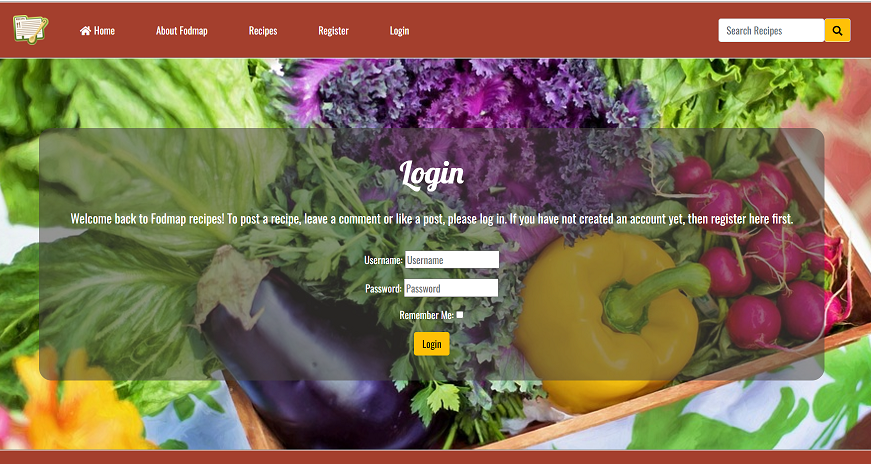
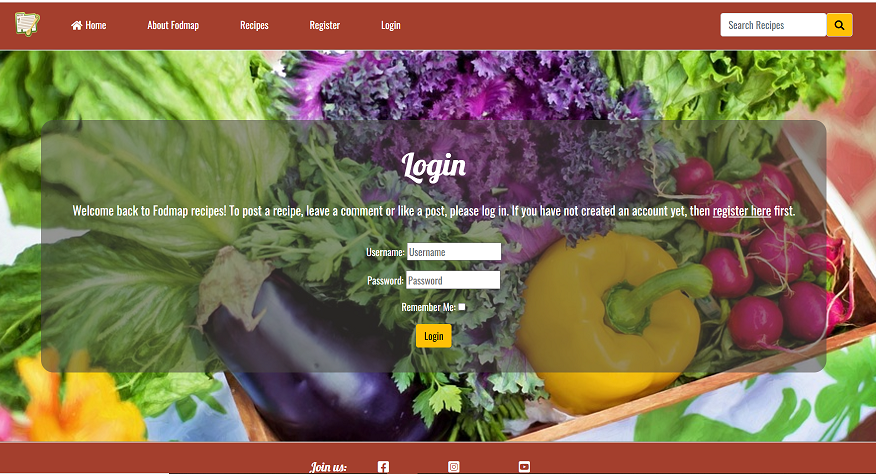
deployment commit

diff --git a/templates/recipe_details.html b/templates/recipe_details.html
@@ -4,25 +4,21 @@
 
 
 
-<div class="masthead">
-    <div class="container">
-        <div class="row g-0">
-            <div class="col-md-6 masthead-text">
-                <!-- Post title -->
-                <h1 class="post-title recipe-title">{{ post.title }}</h1>
-                <!-- Post author goes before the | the post's created date goes after -->
-                <p class="post-subtitle">{{ post.author }} | {{ post.created_on }}</p>
-            </div>
-            <div class="d-none d-md-block col-md-6 masthead-image">           
-                {% if "placeholder" in post.image.url %}
-                <img src="https://res.cloudinary.com/dglcwfgzw/image/upload/v1681206627/fodma-recipes-background_ghwuue.jpg" width="100%">
-                {% else %}
-                <img src=" {{ post.image.url }}" width="100%">
-                {% endif %}
-            </div>
-        </div>
+<div class="container">
+    <div class="row no-gutters recipe-card-head text-white mt-2">
+       <div class="col-md-6 my-auto">
+          <h1 class="recipe-title"> {{ post.title }}</h1>
+          <p class="recipe-subtitle mb-3 mb-lg-0">by {{ post.author }} | <em>{{ post.published_on }}</em></p>
+       </div>
+       <div class="d-md-block col-lg-6">
+          {% if "placeholder" in post.image.url %}
+          <img src="https://res.cloudinary.com/dglcwfgzw/image/upload/v1681206627/fodma-recipes-background_ghwuue.jpg" alt="fodmap" class="card-img-top img-fit">
+          {% else %}
+          <img class="card-img-top img-fit" src=" {{ post.image.url }}" alt="{{ post.title}}">
+          {% endif %}
+       </div>
     </div>
-</div>
+ </div>
 
 
 <!-- Recipe details: Description, Ingredients, Preparation steps -->

diff --git a/templates/index.html b/templates/index.html
@@ -46,7 +46,7 @@
                                     <img class="card-img-top"
                                         src="https://res.cloudinary.com/dglcwfgzw/image/upload/v1681917523/fodmap-recipes-backgroundWebP_syvibf.webp" alt="placeholder">
                                     {% else %}
-                                    <img class="card-img-top" src=" {{ post.image.url }}" alt="Image of {{ post.title }}">
+                                    <img class="card-img-top" src=" {{ post.image.url }}" alt="Image of {{ post.title }}" height="200" width="300">
                                     {% endif %}
                                     </a>
                                     <div class="image-flash">
@@ -103,7 +103,7 @@
                                     <img class="card-img-top" src="https://res.cloudinary.com/dglcwfgzw/image/upload/v1681917523/fodmap-recipes-backgroundWebP_syvibf.webp" alt="placeholder">
                                     {% else %}
                                     <a href="{% url 'recipe_details' recipe.slug  %}" class="post-link">
-                                        <img class="card-img-top" src=" {{ recipe.image.url }}" alt="Image of {{ post.title }}">
+                                        <img class="card-img-top" src=" {{ recipe.image.url }}" alt="Image of {{ post.title }}" height="300" width="300">
                                     </a>
                                     {% endif %}
                                     <div class="image-flash">

diff --git a/static/css/style.css b/static/css/style.css
@@ -98,39 +98,22 @@ a {text-decoration: none}
 }
 
 
-
-.masthead {
-    margin-top: 10px;
-    overflow: hidden;
-    position: relative;
-    display: inline-block;
-    height: 40vh;
-    width: 100%;
-}
-
-.masthead-text {
+.recipe-card-head {
     background-color: #445261;
-    color: white;
-    position: relative;
 }
 
-.masthead-image {
-    position: relative;
-    overflow: hidden;
+.recipe-title {
+    margin-left: 5%;
+    margin-top: 15px;
+}
+.recipe-subtitle {
+    margin-left: 5%;
+    margin-bottom: 0;
+    color: lightgray;
 }
 
-.masthead-image:after {
-    content: "";
-    position: absolute;
-    top: 0;
-    right: 90%;
-    height: 100%;
-    width: 150%;
-    background: #445261;
-    -webkit-transform: skew(15deg);
-    -moz-transform: skew(15deg);
-    transform: skew(15deg);
-    z-index: 100;
+.recipe-card-head-img > img{
+    height: 33vh;
 }
 
 .post-link {
@@ -167,14 +150,14 @@ a {text-decoration: none}
 }
 
 
-.signup-link {
+#login-register-link {
     color: white;
     text-decoration: underline;
 }
 
-.signup-link:hover,
-.signup-link:active {
-    color: #A43F2D;
+#login-register-link:hover,
+#login-register-link:active {
+    color: #A43F2D;/
     
 }
 

diff --git a/templates/account/signup.html b/templates/account/signup.html
@@ -7,12 +7,12 @@
 
 {% block content %}
 
-<div class="container-fluid userlog-image" style="background-image:url('https://res.cloudinary.com/dglcwfgzw/image/upload/v1678303325/vegetables-790022_960_720_jizvfv.jpg') ;">
+<div class="container-fluid userlog-image text-white" style="background-image:url('https://res.cloudinary.com/dglcwfgzw/image/upload/v1678303325/vegetables-790022_960_720_jizvfv.jpg') ;">
   <div class="row">
     <div class="col col-title text-center">
       <h2 class="title">{% trans "Register" %}</h2>
       <br>
-      <p class="display-6 text-white">{% blocktrans %}Already have an account? Then please <a class="signup-link" href="{{ login_url }}">login </a>.{% endblocktrans %}</p>
+      <p class="display-6">{% blocktrans %}Already have an account? Then please <a id="login-register-link" href="{{ login_url }}">login </a>.{% endblocktrans %}</p>
       <br>
       <form class="signup text-white" id="signup_form" method="post" action="{% url 'account_signup' %}">
         {% csrf_token %}

diff --git a/templates/account/login.html b/templates/account/login.html
@@ -12,8 +12,8 @@
       <div class="col col-title text-center">
               <h2 class="title">{% trans "Login" %}</h2>
               <br>
-              <p class="display-6">{% blocktrans %}Welcome back to Fodmap recipes! To post a recipe, leave a comment or like a post, please log in. If you
-                have not created an account yet, then <a class="link text-white" href="{{ signup_url }}">register here</a>
+              <p class="display-6 text-white">{% blocktrans %}Welcome back to Fodmap recipes! To post a recipe, leave a comment or like a post, please log in. If you
+                have not created an account yet, then <a id="login-register-link" href="{{ signup_url }}">register here</a>
                 first.{% endblocktrans %}</p>
               <br>
 

diff --git a/templates/base.html b/templates/base.html
@@ -24,7 +24,7 @@
 
     <nav class="navbar navbar-expand-lg navbar-light">
         <div class="container-fluid">
-            <a class="navbar-brand" href="{% url 'home' %}"><img src="{% static 'assets/images/recipe-icon-small.png' %}" height="40px" width="40px" alt="Logo" ></a>
+            <a class="navbar-brand" href="{% url 'home' %}"><img src="{% static 'assets/images/recipe-icon-small.png' %}" height="40" width="40" alt="Logo" ></a>
             <button class="navbar-toggler" type="button" data-bs-toggle="collapse" data-bs-target="#navbarText"
                 aria-controls="navbarText" aria-expanded="false" aria-label="Toggle navigation">
                 <span class="navbar-toggler-icon"></span>

diff --git a/fodmap_recipes/settings.py b/fodmap_recipes/settings.py
@@ -32,7 +32,7 @@ TEMPLATES_DIR = os.path.join(BASE_DIR, 'templates')
 SECRET_KEY = os.environ.get('SECRET_KEY')
 
 # SECURITY WARNING: don't run with debug turned on in production!
-DEBUG = False
+DEBUG = True
 
 ALLOWED_HOSTS = ["fodmap-recipes.herokuapp.com", "localhost"]
 
@@ -109,7 +109,7 @@ WSGI_APPLICATION = 'fodmap_recipes.wsgi.application'
 # Database
 # https://docs.djangoproject.com/en/3.2/ref/settings/#databases
 
-#DATABASES = {
+# DATABASES = {
 #    'default': {
 #        'ENGINE': 'django.db.backends.sqlite3',
 #        'NAME': BASE_DIR / 'db.sqlite3',

diff --git a/recipes/migrations/0006_remove_post_portions.py b/recipes/migrations/0006_remove_post_portions.py
@@ -1,0 +1,17 @@
+# Generated by Django 3.2.18 on 2023-04-21 14:16
+
+from django.db import migrations
+
+
+class Migration(migrations.Migration):
+
+    dependencies = [
+        ('recipes', '0005_alter_post_portions'),
+    ]
+
+    operations = [
+        migrations.RemoveField(
+            model_name='post',
+            name='portions',
+        ),
+    ]

diff --git a/README.md b/README.md
@@ -178,7 +178,7 @@ The home page consists of a welcome hero image with a yellow clear login/registe
 
 ![Welcome section](static/assets/images/fodmap-welcome.png)
 
-The next part of the home page is the recipe blog section, showing the latest 8 x2 blog posts entered (the last post in the upper left corner). The blog post showing consists of an image (if no image is not uploaded by the post creator a placeholder image is displayed) as well as the number of comments and likes and the date the post is published on. When clicking on the post link the full recipe with details is displayed on the "recipe details" page.
+The next part of the home page is the recipe blog section, showing the latest 8 x2 blog posts entered (the last post in the upper left corner). The blog post showing consists of an image (if no image is not uploaded by the post creator a placeholder image is displayed) as well as the number of comments (only approved/published comments are counted) and likes and the date the post is published on. When clicking on the post link the full recipe with details is displayed on the "recipe details" page.
 
 ![Recently added recipes](static/assets/images/recently-added-recipes.png)
 
@@ -490,6 +490,20 @@ Automated testing was done using the Django's unit tests from a Python standard 
 
 
 
+#### test_views.py
+![Unittest Views](static/assets/images/unittest-test_views.png)
+
+
+
+#### test_forms.py
+![Unittest Forms](static/assets/images/unittest-test_forms.png)
+
+
+
+#### Unittest coverage
+![Unittest Forms](static/assets/images/unittest-coverage-report.png)
+
+
 
 ### Performing tests on various devices
 
@@ -502,6 +516,8 @@ The website was tested using Google Chrome Developer Tools Toggle Device Toolbar
 
 ## Bugs
 
+![Bugs](static/assets/images/bugs.png)
+
 ## Improvements
 
 Possible future improvements of the site could be:
@@ -509,6 +525,7 @@ Possible future improvements of the site could be:
 * The number of comments count to be updated first after the comment has been approved
 * Adding a field in the top of the recipe_details page with cooking time and number of portions
 * A user info site where the user can update/edit their userinfo 
+* Get the unittest coverage up to 100%
 
 
 ##### Back to [top](#table-of-contents)
@@ -557,7 +574,6 @@ The facts about Fodmap were taken from:
 #### Ohter
 The following sites has also been helpful:
 * [W3Schools](https://www.w3schools.com/) 
-* [P4 News](https://github.com/mamuzaan/Portfolio-P4-News) 
 * [The Healthy Family](https://github.com/Iris-Smok/The-Healthy-Family-PP4)
 * [Viva la nacho](https://github.com/Matthew-Hurrell/viva-la-nacho) 
 * [Django project](https://docs.djangoproject.com/) 
